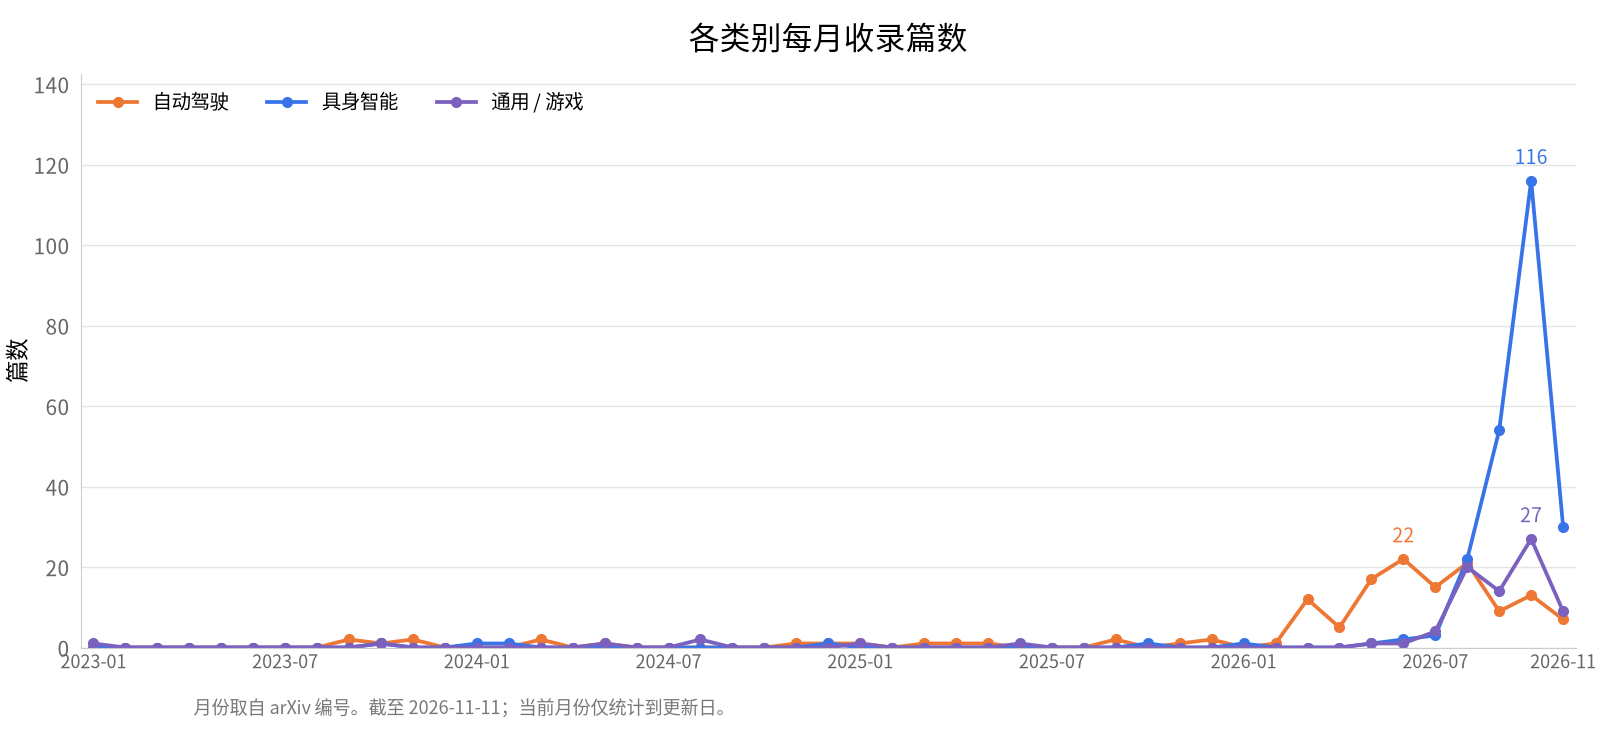
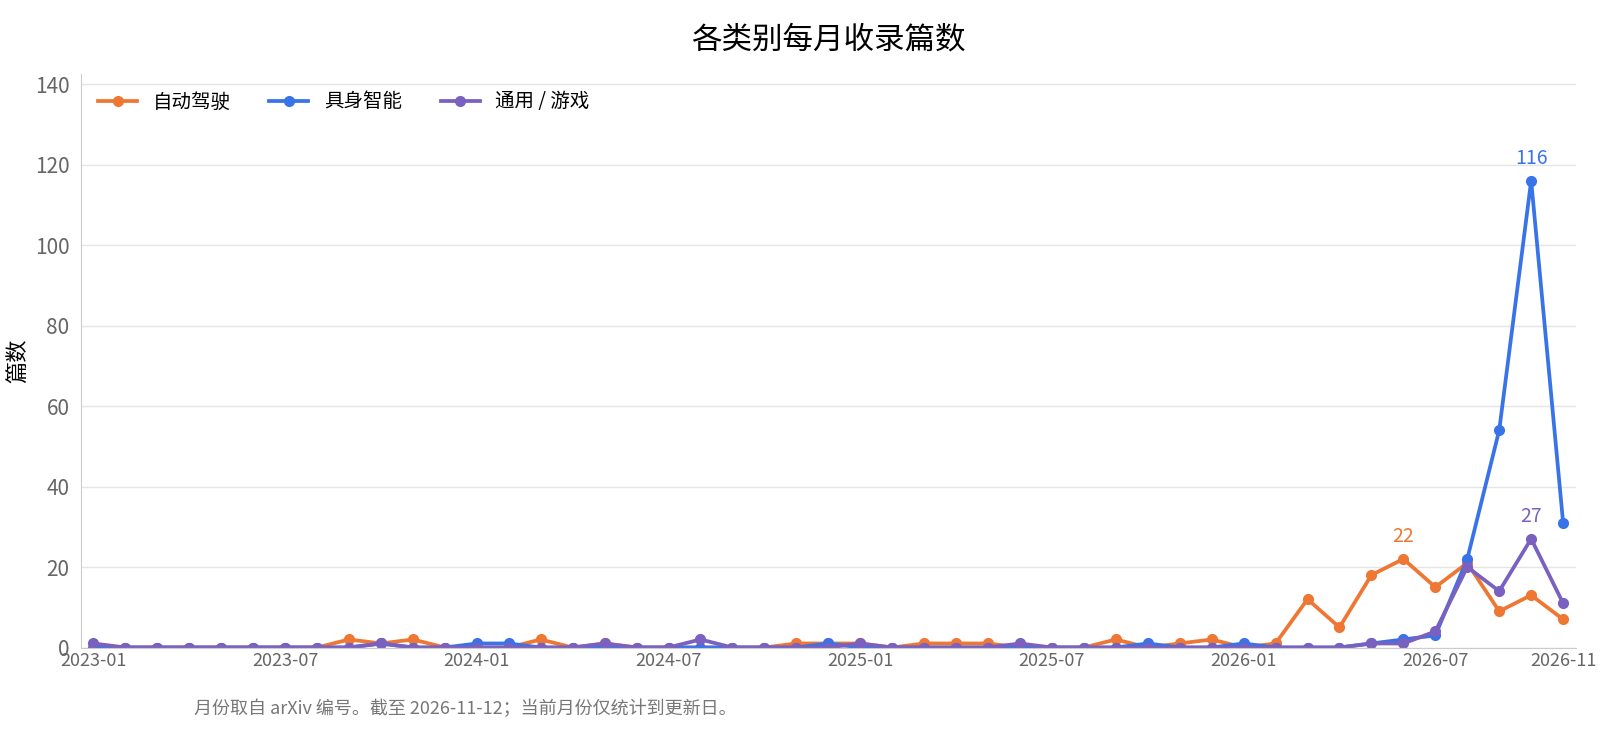
[update] cophy, intrinsic motivation, onlyact, last0.5

diff --git a/README.en.md b/README.en.md
@@ -10,7 +10,7 @@
 
 World models learn dynamic representations of their environments to predict and imagine the future. Interactive world models further support action-conditioned generation and control, providing data engines, neural simulators, and a foundation for policy learning in autonomous driving and embodied AI. This repository collects representative work, organized by application domain and annotated with its interactive capabilities.
 
-📊 **458** papers collected | Last updated: 2026-11-11
+📊 **462** papers collected | Last updated: 2026-11-12
 
 <p align="center">
   <img src="assets/interactive-world-model.en.svg" alt="Interactive world models: closed-loop interaction between agents and world models" width="760">
@@ -31,9 +31,9 @@ World models learn dynamic representations of their environments to predict and 
 
 ## Contents
 
-- [Autonomous Driving](#autonomous-driving) (141)
-- [Embodied AI](#embodied-ai) (234)
-- [General / Game](#general--game) (83)
+- [Autonomous Driving](#autonomous-driving) (142)
+- [Embodied AI](#embodied-ai) (235)
+- [General / Game](#general--game) (85)
 
 ## Autonomous Driving
 
@@ -62,6 +62,7 @@ World models learn dynamic representations of their environments to predict and 
 | **DA-WAM: Decision-Aligned Future Latents for Driving World Models** | arXiv (2026) | HKUST Jun Ma team | 🎮 | [Paper](https://arxiv.org/abs/2608.19085) | Improves driving-world-model performance by aligning trajectories with future representations. |
 | **DLWM**: Dual Latent World Models enable Holistic Gaussian-centric Pre-training in Autonomous Driving | arXiv (2026) | Shaojie Shen team | — | [Paper](https://arxiv.org/abs/2604.00969) | Uses dual latent world models, with occupancy and planning streams, for Gaussian-centric autonomous-driving pre-training. |
 | **DecoupleGS**: Interactive 3D Gaussian Splatting for End-to-End Autonomous Driving Testing | arXiv (2026) | Haotian Shi team | ⚡ 🔁 | [Paper](https://arxiv.org/abs/2608.01761) | Decouples static and dynamic Gaussian splatting to provide a high-fidelity, real-time closed-loop sensor simulation platform for end-to-end autonomous driving. |
+| **CoPhy**: Distill to Think, Foresee to Act: Cognitive-Physical Reinforcement Learning for Autonomous Driving | NeurIPS (2026) | Nanjing University of Science and Technology / Nanjing University / Shanghai Jiao Tong University / Fudan University | 🎮 | [Paper](https://arxiv.org/abs/2605.21139) \| [Project](https://wuyang98.github.io/CoPhy/) | Distills VLM cognitive priors into a BEV encoder, predicts future semantic maps conditioned on candidate trajectories, and optimizes the policy with physical and cognitive rewards; NAVSIM v1 ablations raise PDMS from 88.9 with imitation learning alone to 91.4. Feedback-based driving and real-vehicle tests are unverified, world prediction lacks quantitative metrics, and the results do not establish safety guarantees. |
 | **Dream2Assist**: Dream to Assist: Intent-Conditioned World Models for Shared Vehicle Control | arXiv (2026) | Toyota Research Institute / Massachusetts Institute of Technology | 🎮 🔁 | [Paper](https://arxiv.org/abs/2610.34650) \| [Project](https://dream2assist.github.io/extended/) | Extends an intent-aware RSSM and fictitious co-play for shared driving control. In fully logged sessions of the double-blind urban study, collision rates are 2.7% with intent conditioning, 7.7% without it, and 1.7% unassisted, with no significant subjective-rating improvement. A three-person vehicle-platform test supports transfer feasibility only. |
 | **Dreamer-SAC**: Off-Policy Learning in Latent World Models for Sample-Efficient Autonomous Driving | arXiv (2026) | Xi Xiong team | 🎮 | [Paper](https://arxiv.org/abs/2608.10386) | Combines a recurrent state-space world model, off-policy SAC, and n-step estimation to improve sample efficiency in autonomous driving. |
 | **DriveCache**: Action-Aware Caching for Driving World Model Inference | arXiv (2026) | Jianchun Yang team | 🎮 | [Paper](https://arxiv.org/abs/2608.16354) | An action-aware KV caching strategy for diffusion driving world models that reuses spatially invariant features across multi-step denoising, substantially improving generation throughput. |
@@ -292,6 +293,7 @@ World models learn dynamic representations of their environments to predict and 
 | **LAW**: Unifying Language, Action, and World Modeling for Agentic Physical Intelligence | arXiv (2026) | Peking University / Beijing Innovation Center of Humanoid Robotics | 🔁 | [Paper](https://arxiv.org/abs/2610.23334) \| [Project](https://hey-cjj.github.io/LAW-project/) \| [Code](https://github.com/hey-cjj/LAW) | Jointly predicts video and actions during training, then fuses action chunks with a value expert at inference without generating future video. Average success across 50 RoboTwin tasks is 94.21%, versus 91.83% for Fast-WAM. Three long-horizon real-robot tasks average 65% over 20 trials each, versus 28.33% for π0.5. With matched parameter counts, the shared expert raises MoTE from 91.93% to 92.67%. |
 | **La-JEPA**: Compact Robot Policies with Latent World Modeling | arXiv (2026) | Huawei Technologies Ltd. / University of Toronto / McGill University / Mila | 🔁 | [Paper](https://arxiv.org/abs/2611.08156) \| [Project](https://georgexue.com/projects/la-jepa/) | Trains two Transformers from scratch in pretrained V-JEPA features, improving policies with training-time future supervision; a matched three-training-seed LIBERO-Plus comparison in the original data pipeline rises from 74.35% to 76.47%, with 70/80 successes across four Franka tasks. Future prediction is not externally action-conditioned and is removed at deployment; policy latency does not establish world-model throughput, and physical evidence covers one platform. |
 | **LaLa-World**: Scaling Latent World Models with Natural Language Actions | arXiv (2026) | NAVER AI Lab / Georgia Institute of Technology / Brown University / Mila & Université de Montréal | 🎮 🔁 | [Paper](https://arxiv.org/abs/2610.27851) \| [Project](https://june-page.github.io/lala-world/) \| [Code](https://github.com/junha1125/LaLa-World) | Expresses heterogeneous numerical actions and visual changes in language to learn cross-domain latent dynamics for CEM replanning. Average success reaches 72.1% across five simulated control tasks, while DROID uses an offline action score and long-horizon rollouts remain insufficiently validated. |
+| **LaST0.5**: A Generalist World Action Model with Interaction-Centric Latent Reasoning | arXiv (2026) | Peking University / The Chinese University of Hong Kong / Simplexity Robotics | 🔁 | [Paper](https://arxiv.org/abs/2611.14048) | Retains Cosmos future-video prediction, supervises interaction latents with motion and object cues, and uses predicted progress to truncate actions and replan from fresh observations; across three evaluations on ten RLBench tasks, mean success is 88% versus 85% without adaptive execution. Future prediction is not conditioned on externally supplied actions and spans only 12 frames; final real-world box sealing succeeds in 30% of trials. |
 | **LP2**: Latent Projection for Latent Planning | arXiv (2026) | Stony Brook University | 🎮 🔁 | [Paper](https://arxiv.org/abs/2610.26979) \| [Code](https://github.com/yjang43/lp2) | Fits an action-free normal linear transition over frozen LeWM latents and projects planning costs onto low-uncertainty directions, retaining the existing action-conditioned predictor and replanning. Harder TwoRoom success rises from 60.0% to 96.7%; gains concentrate in 2D navigation and rely on a Gauss–Markov approximation. |
 | **LeWAM (Fu et al.)**: LeWAM: End-to-End World and Action Modeling with JEPAs | arXiv (2026) | UC San Diego / ETH Zurich / University of British Columbia / Brown University | 🎮 🔁 | [Paper](https://arxiv.org/abs/2610.12818) \| [Project](https://le-wam.github.io/) \| [Code](https://github.com/MinghaoFu/lewam) | Jointly trains action-conditioned latent-state prediction and action flow matching with SIGReg regularization; mean visual-goal planning success is 93.5% across ten simulated tasks versus 50.9% for LeWM (CEM), while mean closed-loop success across three physical-robot tasks is 33.3%; models are still trained separately per task and robot. |
 | **RoboImagine**: Learning Robotic World Models with Semantic and Visual Feedback | arXiv (2026) | Carnegie Mellon University / The City College of New York / Nanyang Technological University / University of Wisconsin–Madison / University of California, Merced | 🎮 | [Paper](https://arxiv.org/abs/2611.07850) \| [Code](https://github.com/Alexander-wu/RoboImagine) | Post-trains an action-conditioned autoregressive model using diverse candidate search and semantic/visual feedback; with shared initialization and 500 additional updates on RT-1, PSNR rises from continued SFT's 21.31 to 22.57 dB, but training costs 28.15 versus 1.06 GPU-hours. The separate BridgeV2 reporting cohort shows no gain; evidence is limited to offline prediction without robot closed-loop validation. |
@@ -436,6 +438,7 @@ World models learn dynamic representations of their environments to predict and 
 | **Astronex-World**: Astronex-World 1.0: Real-Time Interactive World Model Foundation | arXiv (2026) | Astronex Robotics | 🎮 ⚡ 🔁 ⏳ | [Paper](https://arxiv.org/abs/2609.20034) \| [Code](https://github.com/Astronex-Robotics/Astronex-World) | A 5B controllable video backbone adapted from Wan2.2-TI2V-5B. Given text or an initial frame, it predicts subsequent visuals using per-frame camera trajectories, 64-dimensional continuous actions, embodiment IDs, and textual events that can be inserted midway through a rollout. Its causal form streams at 832 x 480 and 24 FPS on a single L20, with the action interface reserved for post-training on driving and robotics data. |
 | **InternalVCoT**: Beyond Visual CoT: Internalized Visual Thinking for Proactive Video Reasoning | arXiv (2026) | Xiaoyu Zhu's team | ⏳ | [Paper](https://arxiv.org/abs/2608.15869) | Internalizes explicit visual CoT, which generates intermediate reasoning images, into implicit visual foresight, substantially reducing inference overhead while retaining spatial and temporal reasoning capabilities. |
 | **EchoWM-Data**: Building Pretraining Data for World Models: An Unreal Engine-Based Pipeline for Action-Conditioned Video Generation | arXiv (2026) | Joy Future Academy | 🎮 | [Paper](https://arxiv.org/abs/2609.03557) \| [Project](https://echo-team-joy-future-academy-jd.github.io/Echo-1.5-Page/wm/) | The Unreal synthetic-data pipeline used by EchoWM separates real-time physical trajectory recording with PIE from offline rendering with MRQ. A 200-GPU cluster produces five synchronized streams of 1080p/720p video with frame-aligned actions, character poses, and camera poses, totaling thousands of hours of action-conditioned pretraining data. |
+| **Building World Models from Intrinsic Motivation** | arXiv (2026) | Carnegie Mellon University / University of Maryland, College Park | 🎮 🔁 | [Paper](https://arxiv.org/abs/2611.13113) \| [Code](https://github.com/neuroagents-lab/ssrl-agent) | Compares 24 intrinsic objectives and three representation strategies using Dreamer's action-conditioned dynamics and feedback policy learning across locomotion, manipulation, and games; in Craftax, NGU uses 5M pretraining interactions followed by 500K task interactions to score 15.8 versus 5.9 from scratch at the same task-interaction budget. This is not an isolated loss ablation, and the task budget excludes pretraining costs; more imagination training can impair adaptation, and physical-robot validation is absent. |
 | **Ctrl-CWM**: Controllable Crowd Generation through World-Model Planning | arXiv (2026) | Yonsei University / GIST | 🎮 🔁 | [Paper](https://arxiv.org/abs/2610.09438) \| [Project](https://jungyu0413.github.io/Ctrl-CWM) | Learns human-motion dynamics from real pedestrian videos, freezes the encoder, and trains an actor and critic on imagined trajectories. A planner combines user costs to select pedestrian displacements step by step, allowing new avoidance or attraction objectives at runtime without retraining. Evaluation concerns crowd-trajectory generation, without validating a driving policy. |
 | **DashVMC**: Real-Time Discrete World Model Control in Geometry Dash | arXiv (2026) | INSA Rouen | 🎮 🔁 | [Paper](https://arxiv.org/abs/2609.40003) \| [Project](https://tariolle.github.io/dash-vmc/) \| [Code](https://github.com/Tariolle/dash-vmc) | Learns an action-conditioned discrete-grid world model from approximately 2.3 hours of Geometry Dash screen recordings, then improves the controller with PPO solely in rollouts of the frozen model, without further interaction with the real game. On Stereo Madness, survival frames across three seeds rise from behavior cloning's 120.2, 130.6, and 156.0 to 280.1, 280.4, and 308.8. On held-out community levels, survival rises from approximately 100 frames to between 266.7 and 342.8. Deployment does not generate images; the capture-to-action loop runs at 60 Hz on a consumer GPU. The dynamics model's visual-token accuracy is only 29.58%. |
 | **Diagnosing JEPA World Models with Action-Conditioned Predictive Consistency** | arXiv (2026) | Qi Tian's team | 🎮 | [Paper](https://arxiv.org/abs/2608.12939) | Diagnoses the representation quality of JEPA world models through action-conditioned predictive consistency. |
@@ -464,6 +467,7 @@ World models learn dynamic representations of their environments to predict and 
 | **ReDate**: Old Is Not False: Valid-Time Memory for Interactive Video World Models | arXiv (2026) | HKUST / Beihang University / Monash University / Sun Yat-sen University / Renmin University of China | — | [Paper](https://arxiv.org/abs/2611.00758) | Re-dates memory tokens from executed-action logs to handle state restoration after undos without retraining the generator. Across 197 held-out clips and two generation seeds totaling 590 reverted steps, FAR's current-state accuracy rises from 0.342 to 0.585. It requires logs that identify restorations and suitable historical views; accuracy remains at most 0.10 where the required view is absent. |
 | **OneLA**: Learning Many Worlds from Latent Actions | arXiv (2026) | AMAP, Alibaba Group / Tsinghua University | 🎮 | [Paper](https://arxiv.org/abs/2610.20160) | An orthogonal dictionary learns shared latent actions from videos, while native commands are mapped to this interface for cross-domain video prediction; rotation error falls 24.8% versus OLaF over 40 action-transfer cycles, with results limited to offline generation and no closed-loop control evaluation. |
 | **OneWorld**: Learning Consistent Physics Across Actions in World Models | arXiv (2026) | Wuhan University | 🎮 | [Paper](https://arxiv.org/abs/2609.30946) | Makes futures produced by different actions from the same initial scene share a latent physical mechanism. A mechanism interpreter infers a mechanism distribution from each action-outcome branch and combines evidence of whether the branches can share the same physics to constrain flow training and sampling. Across block pushing, rope pushing, and water pouring, the shared-world gap across interventions falls by an average of 84.3% relative to ACWM-DiT, while single-prediction M-MSE improves by about 7.7×10⁻⁴. Code will be released. |
+| **OnlyAct**: Extracting Action Representations from Foundation Models for World Models | NeurIPS (2026) | University of Oxford | 🎮 | [Paper](https://arxiv.org/abs/2611.14420) \| [Project](https://runjiali-rl.github.io/onlyact/) \| [Code](https://github.com/runjiali-rl/onlyact) | Contrastively adapts V-JEPA 2 without action labels to condition AdaWorld with action representations across robotics, navigation, games, and driving; LIBERO action-transfer optical-flow direction cosine is 0.917 versus 0.803 for a retrained DreamDojo baseline. Direct action control still needs a small labeled set; world models use one training seed and offline evaluation, without verified closed-loop or long-horizon robustness. |
 | **OverSeer**: Multi-Agent World Models Beyond What Agents See | arXiv (2026) | Meta AI / University of Oxford | 🎮 | [Paper](https://arxiv.org/abs/2610.28554) \| [Project](https://runjiali-rl.github.io/OverSeer/) | Jointly predicts multi-player action-conditioned videos with fixed auxiliary views and a δ-VAE. On Minecraft's return-to-start task, VLM accuracy rises from 25.0% without auxiliary views to 60.2%, while auxiliary tokens are compressed eightfold; limited coverage and rapid scene changes still constrain consistency. |
 | **PAWA**: Panoramic Action-conditioned World Modeling for Multiple Agents | arXiv (2026) | Alaya Lab / Peking University / Institute of Science Tokyo | 🎮 | [Paper](https://arxiv.org/abs/2610.20240) \| [Project](https://pawa.siki.moe/) \| [Code](https://github.com/yousiki/pawa-pipeline) | PAWA uses ray-aligned cross-attention and quadratic-phase player codes to jointly predict POV and panoramic video from multiple players’ actions; in a same-checkpoint ablation on 30 two-player, 12-second episodes, enabling cross-view attention lowers POV LPIPS from 0.510 to 0.465; the model is tested only up to 16 players and still loses co-player fidelity over long rollouts. Released code covers the data-collection pipeline. |
 | **Persistent Computational State: A Session-Centric Runtime for Generative World Models** | arXiv (2026) | Zhen Lin's team | — | [Paper](https://arxiv.org/abs/2607.21686) | A session-centric runtime supporting branching, backtracking, and viewpoint revisits for state management in generative world models. |

diff --git a/README.md b/README.md
@@ -10,7 +10,7 @@
 
 世界模型 (World Model) 通过学习环境的动态表征，实现对未来的预测与想象； 可交互世界模型进一步支持以动作 (action) 为条件的生成与控制， 为自动驾驶和具身智能提供数据引擎、神经仿真器与策略学习基础。 本仓库收录并整理该方向的代表性工作，按应用场景分类， 并标注每篇工作的交互能力维度。
 
-📊 共收录 **458** 篇工作 ｜ 最后更新：2026-11-11
+📊 共收录 **462** 篇工作 ｜ 最后更新：2026-11-12
 
 <p align="center">
   <img src="assets/interactive-world-model1.png" alt="交互式世界模型：智能体与世界模型的闭环交互" width="760">
@@ -31,9 +31,9 @@
 
 ## 目录
 
-- [自动驾驶 Autonomous Driving](#自动驾驶-autonomous-driving)（141）
-- [具身智能 Embodied AI](#具身智能-embodied-ai)（234）
-- [通用 / 游戏 General / Game](#通用--游戏-general--game)（83）
+- [自动驾驶 Autonomous Driving](#自动驾驶-autonomous-driving)（142）
+- [具身智能 Embodied AI](#具身智能-embodied-ai)（235）
+- [通用 / 游戏 General / Game](#通用--游戏-general--game)（85）
 
 ## 自动驾驶 Autonomous Driving
 
@@ -62,6 +62,7 @@
 | **DA-WAM: Decision-Aligned Future Latents for Driving World Models** | arXiv (2026) | HKUST Jun Ma 团队 | 🎮 | [论文](https://arxiv.org/abs/2608.19085) | 通过将轨迹与未来表征对齐，从而提高驾驶世界模型的性能。 |
 | **DLWM**: Dual Latent World Models enable Holistic Gaussian-centric Pre-training in Autonomous Driving | arXiv (2026) | Shaojie Shen 团队 | — | [论文](https://arxiv.org/abs/2604.00969) | 双潜世界模型（占据流 + 规划流）实现高斯中心式自动驾驶预训练。 |
 | **DecoupleGS**: Interactive 3D Gaussian Splatting for End-to-End Autonomous Driving Testing | arXiv (2026) | Haotian Shi 团队 | ⚡ 🔁 | [论文](https://arxiv.org/abs/2608.01761) | 解耦动静高斯泼溅，为端到端自动驾驶提供高保真实时闭环传感器仿真平台。 |
+| **CoPhy**: Distill to Think, Foresee to Act: Cognitive-Physical Reinforcement Learning for Autonomous Driving | NeurIPS (2026) | 南京理工大学 / 南京大学 / 上海交通大学 / 复旦大学 | 🎮 | [论文](https://arxiv.org/abs/2605.21139) \| [项目](https://wuyang98.github.io/CoPhy/) | 将 VLM 认知先验蒸馏到 BEV 编码器，以候选轨迹条件预测未来语义地图，并用物理与认知双奖励优化策略；NAVSIM v1 消融中 PDMS 从仅模仿学习的 88.9 升至 91.4。尚无反馈驾驶或实车验证，世界预测缺少量化指标，不能视为安全保证。 |
 | **Dream2Assist**: Dream to Assist: Intent-Conditioned World Models for Shared Vehicle Control | arXiv (2026) | Toyota Research Institute / Massachusetts Institute of Technology | 🎮 🔁 | [论文](https://arxiv.org/abs/2610.34650) \| [项目](https://dream2assist.github.io/extended/) | 扩展带意图推断的 RSSM 及虚拟共同训练，用于人与辅助策略共享驾驶控制；城市双盲研究的完整记录会话中，意图条件策略碰撞率为 2.7%，无意图策略为 7.7%，但无辅助为 1.7%，主观评分无显著改善。三人实车平台测试仅支持迁移可行性。 |
 | **Dreamer-SAC**: Off-Policy Learning in Latent World Models for Sample-Efficient Autonomous Driving | arXiv (2026) | Xi Xiong 团队 | 🎮 | [论文](https://arxiv.org/abs/2608.10386) | 循环状态空间世界模型 + 离策略 SAC + n 步估计，提升自动驾驶样本效率。 |
 | **DriveCache**: Action-Aware Caching for Driving World Model Inference | arXiv (2026) | Jianchun Yang 团队 | 🎮 | [论文](https://arxiv.org/abs/2608.16354) | 针对扩散驾驶世界模型的动作感知 KV 缓存策略，在多步去噪中复用空间不变特征，显著提升生成吞吐量。 |
@@ -292,6 +293,7 @@
 | **LAW**: Unifying Language, Action, and World Modeling for Agentic Physical Intelligence | arXiv (2026) | Peking University / Beijing Innovation Center of Humanoid Robotics | 🔁 | [论文](https://arxiv.org/abs/2610.23334) \| [项目](https://hey-cjj.github.io/LAW-project/) \| [代码](https://github.com/hey-cjj/LAW) | 训练期联合预测视频和动作，推理时用价值专家融合动作块，不生成未来视频。50 个 RoboTwin 任务平均成功率为 94.21%，Fast-WAM 为 91.83%；三真机长程任务各 20 次平均 65%，π0.5 为 28.33%。匹配参数量下，共享专家把 MoTE 从 91.93% 提到 92.67%。 |
 | **La-JEPA**: Compact Robot Policies with Latent World Modeling | arXiv (2026) | Huawei Technologies Ltd. / University of Toronto / McGill University / Mila | 🔁 | [论文](https://arxiv.org/abs/2611.08156) \| [项目](https://georgexue.com/projects/la-jepa/) | 在预训练 V-JEPA 特征上从零训练双 Transformer，以训练期未来监督改善策略；原数据流程的三训练种子 LIBERO-Plus 对照从 74.35% 升至 76.47%，Franka 四任务成功 70/80 次。未来预测不受外部动作条件，部署仅生成动作；策略时延不代表世界模型吞吐，实机证据限单平台。 |
 | **LaLa-World**: Scaling Latent World Models with Natural Language Actions | arXiv (2026) | NAVER AI Lab / Georgia Institute of Technology / Brown University / Mila & Université de Montréal | 🎮 🔁 | [论文](https://arxiv.org/abs/2610.27851) \| [项目](https://june-page.github.io/lala-world/) \| [代码](https://github.com/junha1125/LaLa-World) | 将异构数值动作及视觉变化统一成语言，学习跨域潜动力学并用于 CEM 重规划；五项仿真控制平均成功率为 72.1%，但 DROID 仅作离线动作评分，长时展开仍未充分验证。 |
+| **LaST0.5**: A Generalist World Action Model with Interaction-Centric Latent Reasoning | arXiv (2026) | 北京大学 / 香港中文大学 / Simplexity Robotics | 🔁 | [论文](https://arxiv.org/abs/2611.14048) | 保留 Cosmos 未来视频预测目标，以运动和物体交互线索监督潜表征，并按预测进度截断动作、获取新观测重规划；10 项 RLBench 三次评估平均成功率为 88%，去掉自适应执行为 85%。未来预测不以外给动作作条件且仅含 12 帧，真机封箱最终成功率仍为 30%。 |
 | **LP2**: Latent Projection for Latent Planning | arXiv (2026) | Stony Brook University | 🎮 🔁 | [论文](https://arxiv.org/abs/2610.26979) \| [代码](https://github.com/yjang43/lp2) | 在冻结 LeWM 上拟合无动作条件的正规线性转移，将规划成本投影到低不确定性子空间，复用原动作条件预测器与重规划；困难 TwoRoom 成功率由 60.0% 升至 96.7%，收益主要集中二维导航，依赖高斯–马尔可夫近似。 |
 | **LeWAM (Fu et al.)**: LeWAM: End-to-End World and Action Modeling with JEPAs | arXiv (2026) | UC San Diego / ETH Zurich / University of British Columbia / Brown University | 🎮 🔁 | [论文](https://arxiv.org/abs/2610.12818) \| [项目](https://le-wam.github.io/) \| [代码](https://github.com/MinghaoFu/lewam) | 联合训练动作条件潜状态预测与动作流匹配，并用 SIGReg 稳定表征；十项模拟视觉目标规划平均成功率为 93.5%，对比 LeWM（CEM）的 50.9%；三项真机闭环任务平均成功率为 33.3%，仍按任务与机器人分别训练。 |
 | **RoboImagine**: Learning Robotic World Models with Semantic and Visual Feedback | arXiv (2026) | Carnegie Mellon University / The City College of New York / Nanyang Technological University / University of Wisconsin–Madison / University of California, Merced | 🎮 | [论文](https://arxiv.org/abs/2611.07850) \| [代码](https://github.com/Alexander-wu/RoboImagine) | 用多样候选搜索和语义/视觉反馈后训练动作条件自回归模型；RT-1 同初始化、500 次额外更新的 PSNR 从继续 SFT 的 21.31 升至 22.57 dB，但训练成本为 28.15 对 1.06 GPU 小时。BridgeV2 独立报告集未见收益；证据限离线预测，无机器人闭环验证。 |
@@ -436,6 +438,7 @@
 | **Astronex-World**: Astronex-World 1.0: Real-Time Interactive World Model Foundation | arXiv (2026) | Astronex Robotics | 🎮 ⚡ 🔁 ⏳ | [论文](https://arxiv.org/abs/2609.20034) \| [代码](https://github.com/Astronex-Robotics/Astronex-World) | 从 Wan2.2-TI2V-5B 改出的 5B 可控视频底座。给定文字或第一帧，再按逐帧相机轨迹、64 维连续动作、本体编号，以及可插入 rollout 中途的文字事件预测后续画面。因果形态在单张 L20 上以 832×480、24 FPS 流式生成，动作接口留给驾驶和机器人数据后训练。 |
 | **InternalVCoT**: Beyond Visual CoT: Internalized Visual Thinking for Proactive Video Reasoning | arXiv (2026) | Xiaoyu Zhu 团队 | ⏳ | [论文](https://arxiv.org/abs/2608.15869) | 将显式视觉 CoT（生成中间推理图像）内化为隐式视觉预见，在保持空间/时序推理能力的同时大幅降低推理开销。 |
 | **EchoWM-Data**: Building Pretraining Data for World Models: An Unreal Engine-Based Pipeline for Action-Conditioned Video Generation | arXiv (2026) | Joy Future Academy | 🎮 | [论文](https://arxiv.org/abs/2609.03557) \| [项目](https://echo-team-joy-future-academy-jd.github.io/Echo-1.5-Page/wm/) | EchoWM 所用的 Unreal 合成数据产线：PIE 实时物理记录轨迹、MRQ 离线渲染两阶段解耦，200 卡集群产出五路同步 1080p/720p 视频及帧对齐动作、角色与相机位姿，累计数千小时动作条件预训练数据。 |
+| **Building World Models from Intrinsic Motivation** | arXiv (2026) | Carnegie Mellon University / University of Maryland, College Park | 🎮 🔁 | [论文](https://arxiv.org/abs/2611.13113) \| [代码](https://github.com/neuroagents-lab/ssrl-agent) | 在 Dreamer 动作条件动力学和反馈策略学习中比较 24 种内在目标与三种表征策略，覆盖运动控制、操作和游戏；Craftax 中 NGU 经 5M 预训练交互后再进行 500K 任务交互得分为 15.8，同任务交互预算从零训练为 5.9。比较并非孤立损失消融，任务预算不含预训练成本；更多想象训练反而可能损害适应，无实机验证。 |
 | **Ctrl-CWM**: Controllable Crowd Generation through World-Model Planning | arXiv (2026) | Yonsei University / GIST | 🎮 🔁 | [论文](https://arxiv.org/abs/2610.09438) \| [项目](https://jungyu0413.github.io/Ctrl-CWM) | 从真实行人视频学习运动动力学，再冻结编码器，在想象轨迹上训练 actor 和 critic。规划器结合用户代价逐步选择行人位移，运行中可新增避让或吸引目标，无需重训；评测面向人群轨迹生成，未验证驾驶策略。 |
 | **DashVMC**: Real-Time Discrete World Model Control in Geometry Dash | arXiv (2026) | INSA Rouen | 🎮 🔁 | [论文](https://arxiv.org/abs/2609.40003) \| [项目](https://tariolle.github.io/dash-vmc/) \| [代码](https://github.com/Tariolle/dash-vmc) | 用大约 2.3 小时的 Geometry Dash 录屏学一个动作条件的离散格子世界模型，再只在冻结的模型展开里用 PPO 改控制器，不再碰实机。Stereo Madness 上，三个种子的存活帧数从行为克隆的 120.2、130.6、156.0 升到 280.1、280.4、308.8。留出的社区关卡从大约 100 帧升到 266.7 到 342.8。部署时不做画面生成，消费级 GPU 上采集到动作的循环是 60 Hz。动力学模型的视觉 token 准确率只有 29.58%。 |
 | **Diagnosing JEPA World Models with Action-Conditioned Predictive Consistency** | arXiv (2026) | Qi Tian 团队 | 🎮 | [论文](https://arxiv.org/abs/2608.12939) | 用动作条件预测一致性诊断 JEPA 世界模型的表示质量。 |
@@ -464,6 +467,7 @@
 | **ReDate**: Old Is Not False: Valid-Time Memory for Interactive Video World Models | arXiv (2026) | HKUST / Beihang University / Monash University / Sun Yat-sen University / Renmin University of China | — | [论文](https://arxiv.org/abs/2611.00758) | 不重训生成器，按已执行动作日志修正记忆 token 的有效时间以处理撤销后的状态恢复；197 个留出片段在两个生成种子下合计 590 个返还步骤，FAR 当前状态准确率从 0.342 升至 0.585。依赖可识别恢复的动作日志和历史视角，缺对应视角时准确率仍不超过 0.10。 |
 | **OneLA**: Learning Many Worlds from Latent Actions | arXiv (2026) | AMAP, Alibaba Group / Tsinghua University | 🎮 | [论文](https://arxiv.org/abs/2610.20160) | 用正交字典从视频学习共享潜动作，并将原生命令映射到该接口驱动跨域视频预测；40次动作循环迁移中旋转误差较OLaF下降24.8%，结果限离线生成，未验证闭环控制。 |
 | **OneWorld**: Learning Consistent Physics Across Actions in World Models | arXiv (2026) | 武汉大学 | 🎮 | [论文](https://arxiv.org/abs/2609.30946) | 让同一初始场景下、不同动作产生的未来共用一个潜在物理机制。机制解释器从每条动作–结果分支推断机制分布，再合成这些分支能否共用一种物理的证据，用来约束流训练和采样。推方块、推绳子、倒水三个环境里，跨干预的共享世界差距相对 ACWM-DiT 平均下降 84.3%，单条预测的 M-MSE 约好 7.7×10⁻⁴。代码将放出。 |
+| **OnlyAct**: Extracting Action Representations from Foundation Models for World Models | NeurIPS (2026) | University of Oxford | 🎮 | [论文](https://arxiv.org/abs/2611.14420) \| [项目](https://runjiali-rl.github.io/onlyact/) \| [代码](https://github.com/runjiali-rl/onlyact) | 对 V-JEPA 2 作无动作标签的对比适配，提取动作表征条件化 AdaWorld，覆盖机器人、导航、游戏与驾驶；LIBERO 动作迁移的光流方向余弦为 0.917，重训 DreamDojo 对照为 0.803。直接动作控制仍需少量标签，世界模型仅单训练种子且离线评估，未验证闭环或长期稳定性。 |
 | **OverSeer**: Multi-Agent World Models Beyond What Agents See | arXiv (2026) | Meta AI / University of Oxford | 🎮 | [论文](https://arxiv.org/abs/2610.28554) \| [项目](https://runjiali-rl.github.io/OverSeer/) | 以固定辅助视角与 δ-VAE 联合预测多玩家动作条件视频；Minecraft 回到起点任务中，VLM 准确率由无辅助视角的 25.0% 提升至 60.2%，辅助视角 token 压缩 8 倍，但覆盖不足和快速场景变化仍限制一致性。 |
 | **PAWA**: Panoramic Action-conditioned World Modeling for Multiple Agents | arXiv (2026) | Alaya Lab / Peking University / Institute of Science Tokyo | 🎮 | [论文](https://arxiv.org/abs/2610.20240) \| [项目](https://pawa.siki.moe/) \| [代码](https://github.com/yousiki/pawa-pipeline) | PAWA 以射线对齐交叉注意力和二次相位玩家编码，按多玩家动作联合预测 POV 与全景；在 30 个双人 12 秒回合的同检查点消融中，启用跨视图注意力使 POV LPIPS 从 0.510 降至 0.465；模型仅测试至 16 人，长时滚动仍损失角色保真度。 公开代码为数据采集管线。 |
 | **Persistent Computational State: A Session-Centric Runtime for Generative World Models** | arXiv (2026) | Zhen Lin 团队 | — | [论文](https://arxiv.org/abs/2607.21686) | 会话中心运行时支持分叉、回溯和重访视角，面向生成式世界模型的状态管理。 |

diff --git a/curation/2026-11-12.md b/curation/2026-11-12.md
@@ -1,0 +1,26 @@
+# 论文筛选审核记录 — 2026-11-12
+
+## Issue #63 — arXiv 候选论文更新 2026-11-11
+
+[原 issue](https://github.com/Zizizi-hao/Awesome-interactive-world-model-for-Pysical-Intelligence/issues/63)；5 篇候选的 arXiv ID、完整标题及简称均未在分类数据库命中，issue 无评论，初始工作区干净。本轮收录 4 篇（driving 1、embodied 1、general 2），暂缓 1 篇，不收录 0 篇。按实际应用而非扫描分组归类；核验当前原文、实验、局限和官方资源。仅处理本 issue，初次补库后保留本地供审核；用户随后明确授权提交、推送，并在发布及 CI 核验成功后关闭 issue #63，未授权发表评论。`meta.updated` 更新为 2026-11-12。
+
+### 收录
+
+- **CoPhy（driving，2605.21139）**：候选轨迹条件化 BEV 转移，预测未来语义地图，结合认知蒸馏及双奖励 GRPO；当前 v5 的 NAVSIM v1 消融为 IL 88.9→91.4 PDMS。标 action；GRPO 是整轨迹评分更新，NAVSIM 的 pseudo closed-loop 不向 planner 回传新环境状态，未证明反馈驾驶。62.8 FPS 未绑定推理硬件，8 H20 仅训练；固定四秒预测和 K=4 误差积累不支持长时标签。预测评估主要定性，无误差条或实车验证，不写安全保证。南京理工/南京大学/上海交大/复旦、2026-05-20 首发核实；NeurIPS 官方目录有同题，项目亦确认接收。官方仓库只有待商业审查的 README，不加 code。[元数据](https://arxiv.org/abs/2605.21139)、[当前全文](https://arxiv.org/html/2605.21139v5)、[项目](https://wuyang98.github.io/CoPhy/)、[代码发布状态](https://github.com/wuyang98/CoPhy)、[NeurIPS 目录](https://neurips.cc/Downloads/2026)、[NAVSIM 交互协议](https://github.com/autonomousvision/navsim/blob/main/docs/traffic_agents.md)。
+
+- **Building World Models from Intrinsic Motivation（general，2611.13113）**：在共同 Dreamer 控制框架下比较 24 内在目标和三种表征策略，跨 DMC、RoboKitchen 与 Craftax，不是新动力学骨干。RSSM 显式以动作转移，策略经新观测后验反馈执行并在线适应，标 action/closedloop；15 步想象无长期连贯性或实测实时吞吐证据。Craftax NGU 预训练后 500K 任务交互得分 15.8，对同任务预算从零训练 5.9；不能忽略此前 5M 预训练交互及离线更新成本。辅助架构和损失尺度也变，非孤立损失消融；增加想象训练可能损害适应。无实机，家族排名在展示数据上选择，非留出验证。CMU/UMD、2026-11-09 首发、v1、arXiv；论文所给项目页当前 404，省略 project，实验室同名实质仓库可用。[元数据](https://arxiv.org/abs/2611.13113)、[原文 §2–5、附录 B–F](https://arxiv.org/html/2611.13113v1)、[官方实现](https://github.com/neuroagents-lab/ssrl-agent)、[失效项目页](https://neuroagents-lab.github.io/ssrl-agent)。
+
+- **OnlyAct（general，2611.14420）**：对 V-JEPA 2 对比适配，以动作表征条件化 AdaWorld；跨机器人、导航、游戏和驾驶，故从扫描 embodied 调整到 general。LIBERO 迁移光流方向余弦为 0.917，重训 DreamDojo 为 0.803；冻结骨干、同数据与白化对照支持贡献。外部离散动作表/连续 MLP 接口有验证，标 action；明确离线，19 帧预测无闭环、实时或长期稳定性证据。直接控制仍需标签，主要场景替换依赖静态相机，世界模型及微调仅单训练种子。Oxford、2026-11-10 首发、v1。venue 为 NeurIPS：会议目录以旧题 ActO 列同六作者，机构出版页亦确认；当前附录 A.3 解释投稿 Qwen 版改为 V-JEPA 2，旧结果已被替代，未混用。项目与代码亦标接收，公开实质代码可核验。[元数据](https://arxiv.org/abs/2611.14420)、[原文 §3–4、附录 A.3/B/D](https://arxiv.org/html/2611.14420v1)、[官方项目](https://runjiali-rl.github.io/onlyact/)、[代码](https://github.com/runjiali-rl/onlyact)、[NeurIPS 目录](https://neurips.cc/Downloads/2026)、[机构出版页](https://robots.ox.ac.uk/~vedaldi/pub.html)。
+
+- **LaST0.5（embodied，2611.14048）**：保留 Cosmos-Predict2.5-2B 未来视频损失，以运动/物体线索监督交互潜表征再生成动作，属于现有预测模型的策略迁移与后训练。AWAT 以进度下降截断动作、获取新视觉后重规划，标 closedloop；world expert 不接收动作，不标 action。10 项 RLBench 三次独立评估平均 88.0±3.0%，无 AWAT 为 85.0±2.0%；LIBERO 99.5% 是 best checkpoint，不当多次均值。四项真机各 20 次，完整任务平均 63.8%，但最终封箱仅 30%，仍受几何/摩擦/对准误差影响。12 未来帧及两步去噪不足实时/长期标签。PKU/CUHK/Simplexity Robotics、2026-11-10 首发、v1、arXiv；未核实自有官方项目/代码，省略。[元数据](https://arxiv.org/abs/2611.14048)、[原文方法、实验、附录 A/G](https://arxiv.org/html/2611.14048v1)。
+
+### 暂缓
+
+- **Incorporating World Models in Decision Making for Next Best View Selection in Active Sensing（2611.13229）**：冻结 FrameCrafter/DA3 并学习 sensor-return GP，方法与世界模型应用相关，但 §4 明确实验用参考扫描深度投影替代尚待对齐的预测深度，不能据此认定完整 learned world model pipeline 已端到端验证。50 次、四只头盔校准；一只留出头盔上每方法仅运行一次，4 次 98.4% 对 10 次 97.5%，还不含六张 context 和校准成本。依赖参考曲面且固定光照/传感器设置，暂不足高质量应用推荐；待实际预测几何与多物体重复实验后重审。GrayMatter Robotics、2026-11-09 首发、v1；CoRL 官方 workshop 入口和接收列表可核验，但为 non-archival website-only contribution，不是主会接收。[元数据](https://arxiv.org/abs/2611.13229)、[全文 §3–5](https://arxiv.org/html/2611.13229v1)、[CoRL workshops](https://www.corl.org/program/workshops)、[workshop 接收列表](https://do-robots-need-world-models.github.io/)。
+
+### 本地验证
+
+- 已运行 `python3 scripts/generate_readme.py` 和 `python3 scripts/generate_monthly_chart.py`，生成双语 README 与统计图；两图目视核查标题、字体、图例、日期及曲线，显示正常。缺少的绘图依赖和 Noto 中文字体仅下载到 `/tmp/issue63-*`，通过临时字体注册运行原脚本，未修改生成器或项目依赖。
+- `python3 -m unittest discover -s tests`：34 项通过；`git diff --check` 通过。新增 4 个 arXiv ID、规范化完整标题各自唯一，暂缓候选未入库，5 篇均有决策。中英文事实、数字、能力与限制经人工及独立只读复核；README 与生成函数逐文本一致。
+- 总数由 458 增至 462 篇（driving 142、embodied 235、general 85）；月度计数变化为 driving 的 2026-05 加 1，embodied/general 的 2026-11 分别加 1/2。原有 458 篇逐条不变，三个分类文件保留原文本前缀，数据入口仅改日期。
+- 变更限三个分类数据库、数据入口、双语 README、双语统计图及本审计，共九个文件。扫描记录、此前审计、pipeline、生成器和测试未改。用户已明确授权提交、推送，并在远端发布及 CI 核验成功后将 issue #63 以 completed 关闭；未授权发表评论。提交前已确认 main 与 origin/main 同步，GitHub CLI 登录有效。
